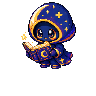
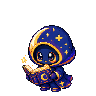
Fix autonomous pet interaction polish

diff --git a/pet/pet_window.py b/pet/pet_window.py
@@ -187,6 +187,7 @@ class SpritePetWindow(QWidget):
         # second expression batch
         "wink": "wink",
         "look_side": "look_side",
+        "look_side_flip": "look_side_flip",
         "write": "write",
         "yawn": "yawn",
         "teleport": "teleport",
@@ -407,6 +408,8 @@ class SpritePetWindow(QWidget):
         # pet can dash either direction.
         if "dash" in self.sprite_images:
             self.sprite_images["dash_flip"] = self._flip_h(self.sprite_images["dash"])
+        if "look_side" in self.sprite_images:
+            self.sprite_images["look_side_flip"] = self._flip_h(self.sprite_images["look_side"])
 
     @staticmethod
     def _flip_h(img: QImage) -> QImage:
@@ -438,29 +441,21 @@ class SpritePetWindow(QWidget):
         return left, top, right, bottom
 
     def _compute_content_extents(self) -> None:
-        """Tightest character box across every pose, so the visible sprite (not
-        the padded window) decides edge clamps and the bubble anchor."""
-        left = top = self.SPRITE_SIZE
-        right_margin = self.SPRITE_SIZE
-        for img in self.sprite_images.values():
-            ext = self._alpha_extents(img)
-            if ext is None:
-                continue
-            l, t, r, _b = ext
-            left = min(left, l)
-            top = min(top, t)
-            right_margin = min(right_margin, self.SPRITE_SIZE - 1 - r)
-        if left < self.SPRITE_SIZE:
-            self._content_left = left
-            self._content_right = right_margin
-            self._content_top = top
+        """Use the canonical body pose for edge clamps and bubble placement.
 
-        # Seat height comes from the canonical standing pose (idle): the gap from
-        # the feet to the bottom of the padded stage is dead space to cut.
+        Effect poses intentionally reach toward the canvas edges. Including them
+        here makes the ordinary idle body float away from the screen edge.
+        """
         idle = self.sprite_images.get("idle")
         idle_ext = self._alpha_extents(idle) if idle is not None else None
         if idle_ext is not None:
-            foot_edge = idle_ext[3] + 1  # one row below the lowest opaque pixel
+            left, top, right, bottom = idle_ext
+            self._content_left = left
+            self._content_right = self.SPRITE_SIZE - 1 - right
+            self._content_top = top
+
+            # The gap below idle's feet is transparent stage padding.
+            foot_edge = bottom + 1
             self._foot_inset = max(0, self.STAGE_SIZE - self.SPRITE_Y - foot_edge)
 
     def _configure_window(self) -> None:
@@ -1485,11 +1480,16 @@ class SpritePetWindow(QWidget):
                   and "look_side" in self.sprite_images):
                 # cursor coming in from a side -> turn the head and watch it
                 self.mood.curiosity = min(1.0, self.mood.curiosity + 0.2)
-                self._set_action("look_side", seconds=1.2)
+                self._set_action(self._side_glance_pose(cp.x(), center.x()), seconds=1.2)
             else:
                 self.mood.curiosity = min(1.0, self.mood.curiosity + 0.2)
                 self._set_action("curious", seconds=1.1)
         self._cursor_was_near = near
+
+    def _side_glance_pose(self, cursor_x: int, center_x: int) -> str:
+        if cursor_x < center_x and "look_side_flip" in self.sprite_images:
+            return "look_side_flip"
+        return "look_side"
 
     # ---------- voice ----------
     # A quiet, dreamy little moon spirit: soft, warm, unhurried, a touch sleepy.
@@ -1637,7 +1637,7 @@ class SpritePetWindow(QWidget):
         self._next_idle_gap = gap
 
     def _start_walk(self) -> bool:
-        min_x, max_x = self._x_bounds()
+        min_x, max_x = self._wander_x_bounds()
         if max_x <= min_x:
             return False
         target = random.randint(min_x, max_x)
@@ -1653,7 +1653,7 @@ class SpritePetWindow(QWidget):
 
     def _start_walk_toward(self, cursor_x: int) -> bool:
         """Amble so the pet ends up roughly under the cursor (clamped on-screen)."""
-        min_x, max_x = self._x_bounds()
+        min_x, max_x = self._wander_x_bounds()
         if max_x <= min_x:
             return False
         target = max(min_x, min(cursor_x - self.width() // 2, max_x))
@@ -1666,6 +1666,11 @@ class SpritePetWindow(QWidget):
         self._dashing = False
         self.walking = True
         return True
+
+    def _wander_x_bounds(self) -> tuple[int, int]:
+        """Keep autonomous movement out of the user-controlled parking zones."""
+        min_x, max_x = self._x_bounds()
+        return min_x + self.PARK_ZONE + 1, max_x - self.PARK_ZONE - 1
 
     def _step_walk(self) -> None:
         if self.walk_target_x is None or self.dragging or self.collapsed or not self.isVisible():

diff --git a/tests/test_window_interaction.py b/tests/test_window_interaction.py
@@ -203,6 +203,33 @@ class WindowInteractionTests(unittest.TestCase):
             w._was_parked = saved_was_parked
             w._snap_to_taskbar(initial=True)
 
+    def test_autonomous_walk_avoids_user_parking_zones(self) -> None:
+        w = self.window
+        min_x, max_x = w._x_bounds()
+        walk_min, walk_max = w._wander_x_bounds()
+        self.assertEqual(walk_min, min_x + w.PARK_ZONE + 1)
+        self.assertEqual(walk_max, max_x - w.PARK_ZONE - 1)
+
+        w.move((min_x + max_x) // 2, w.y())
+        self.assertTrue(w._start_walk_toward(max_x + w.width()))
+        self.assertEqual(w.walk_target_x, walk_max)
+        w.move(w.walk_target_x, w.y())
+        self.assertFalse(w._is_parked())
+        w._end_walk()
+
+    def test_edge_extents_use_idle_body_not_effects(self) -> None:
+        idle = self.window._alpha_extents(self.window.sprite_images["idle"])
+        self.assertIsNotNone(idle)
+        left, top, right, _bottom = idle
+        self.assertEqual(self.window._content_left, left)
+        self.assertEqual(self.window._content_top, top)
+        self.assertEqual(self.window._content_right, self.window.SPRITE_SIZE - 1 - right)
+
+    def test_side_glance_faces_cursor(self) -> None:
+        self.assertIn("look_side_flip", self.window.sprite_images)
+        self.assertEqual(self.window._side_glance_pose(10, 20), "look_side_flip")
+        self.assertEqual(self.window._side_glance_pose(30, 20), "look_side")
+
     def test_tray_menu_does_not_expose_monitoring_ui(self) -> None:
         labels = [
             action.text()
